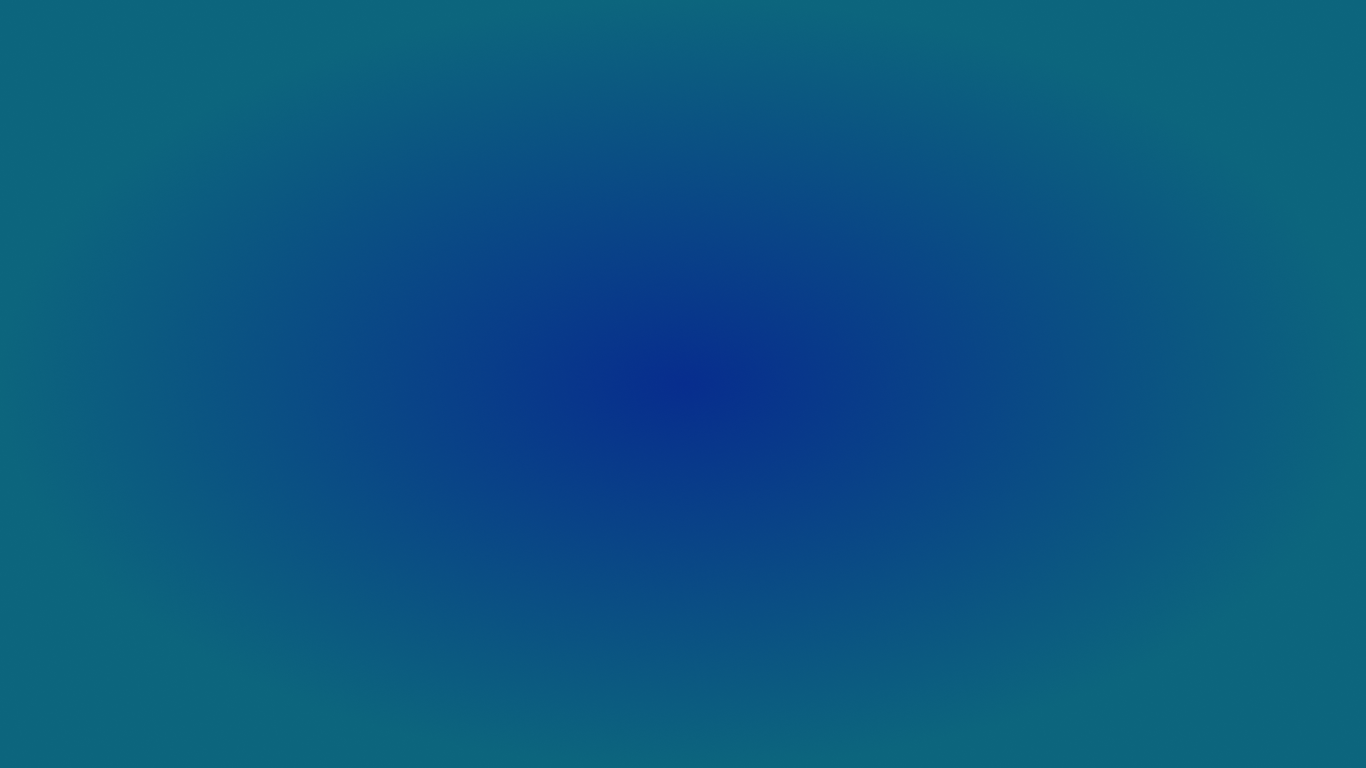
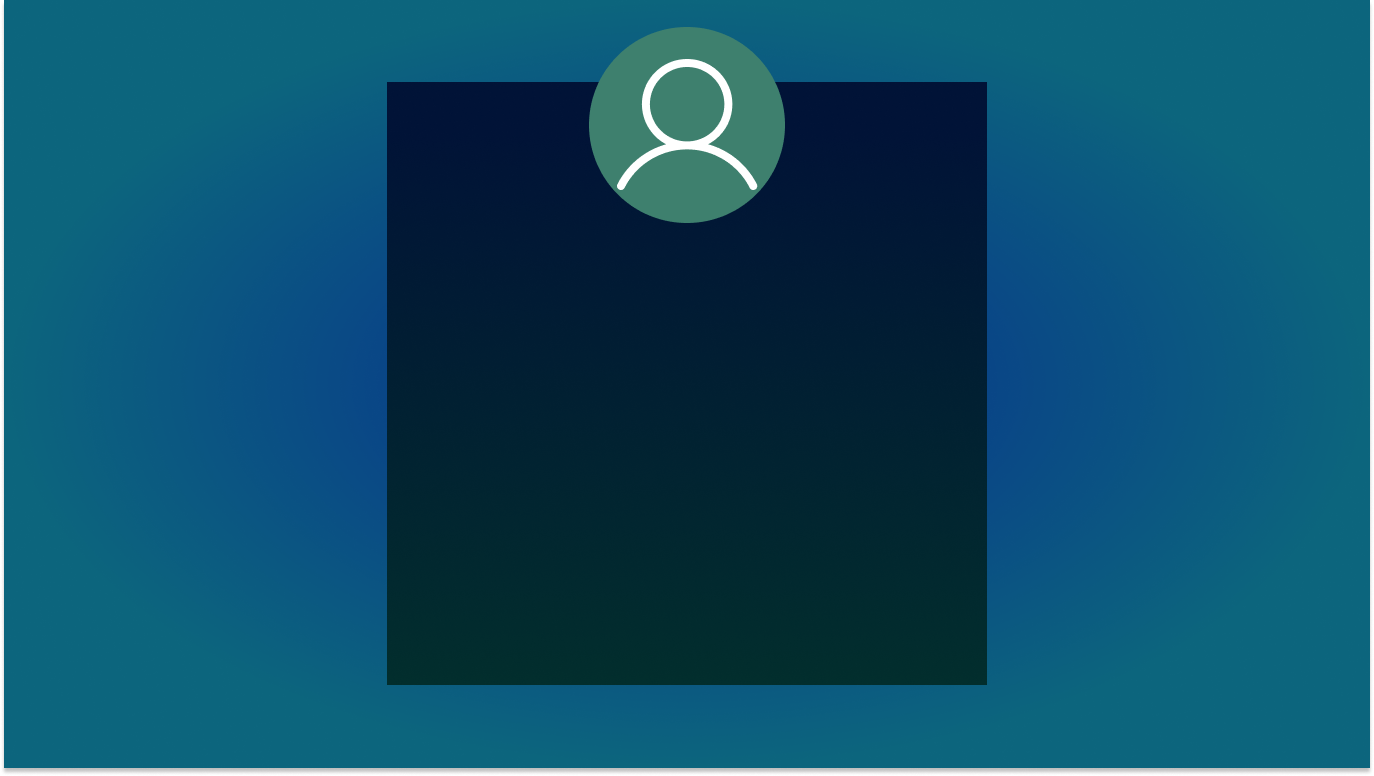
Add messaegbox

diff --git a/main.py b/main.py
@@ -1,0 +1,46 @@
+import tkinter as tk
+from PIL import Image, ImageTk
+from tkinter import messagebox
+
+root = tk.Tk()
+root.title("Login")
+root.geometry("1366x768")
+
+bg_image = Image.open("src/login.png")
+bg_photo = ImageTk.PhotoImage(bg_image)
+
+canvas = tk.Canvas(root, width=1366, height=768)
+canvas.pack(fill="both", expand=True)
+canvas.create_image(0, 0, image=bg_photo, anchor="nw")
+
+font_style = ("Rubik", 16)
+
+username_entry = tk.Entry(root, width=30, bg="#D9D9D9", bd=0, highlightthickness=0, font=font_style)
+username_entry.place(x=571, y=288, width=316, height=60)
+
+password_entry = tk.Entry(root, show="*", width=30, bg="#D9D9D9", bd=0, highlightthickness=0, font=font_style)
+password_entry.place(x=571, y=384, width=316, height=60)
+
+def login():
+    username = username_entry.get()
+    password = password_entry.get()
+    if username == "user" and password == "1234":
+        messagebox.showinfo("Login Successful", "You have successfully logged in!")
+    else:
+        messagebox.showerror("Login Failed", "Invalid username or password")
+
+login_button = tk.Button(root, text="Login", bg="#3E806E", fg="#D9D9D9", bd=0, highlightthickness=0, font=font_style, command=login)
+login_button.place(x=479, y=509, width=408, height=60)
+
+canvas.create_rectangle(479, 288, 571, 348, fill="#B97A7A", outline="")
+canvas.create_rectangle(479, 384, 571, 444, fill="#B97A7A", outline="")
+
+username_icon = Image.open("src/icon_username.png")
+username_photo = ImageTk.PhotoImage(username_icon)
+canvas.create_image(511, 302, image=username_photo, anchor="nw")
+
+password_icon = Image.open("src/icon_password.png")
+password_photo = ImageTk.PhotoImage(password_icon)
+canvas.create_image(511, 398, image=password_photo, anchor="nw")
+
+root.mainloop()
